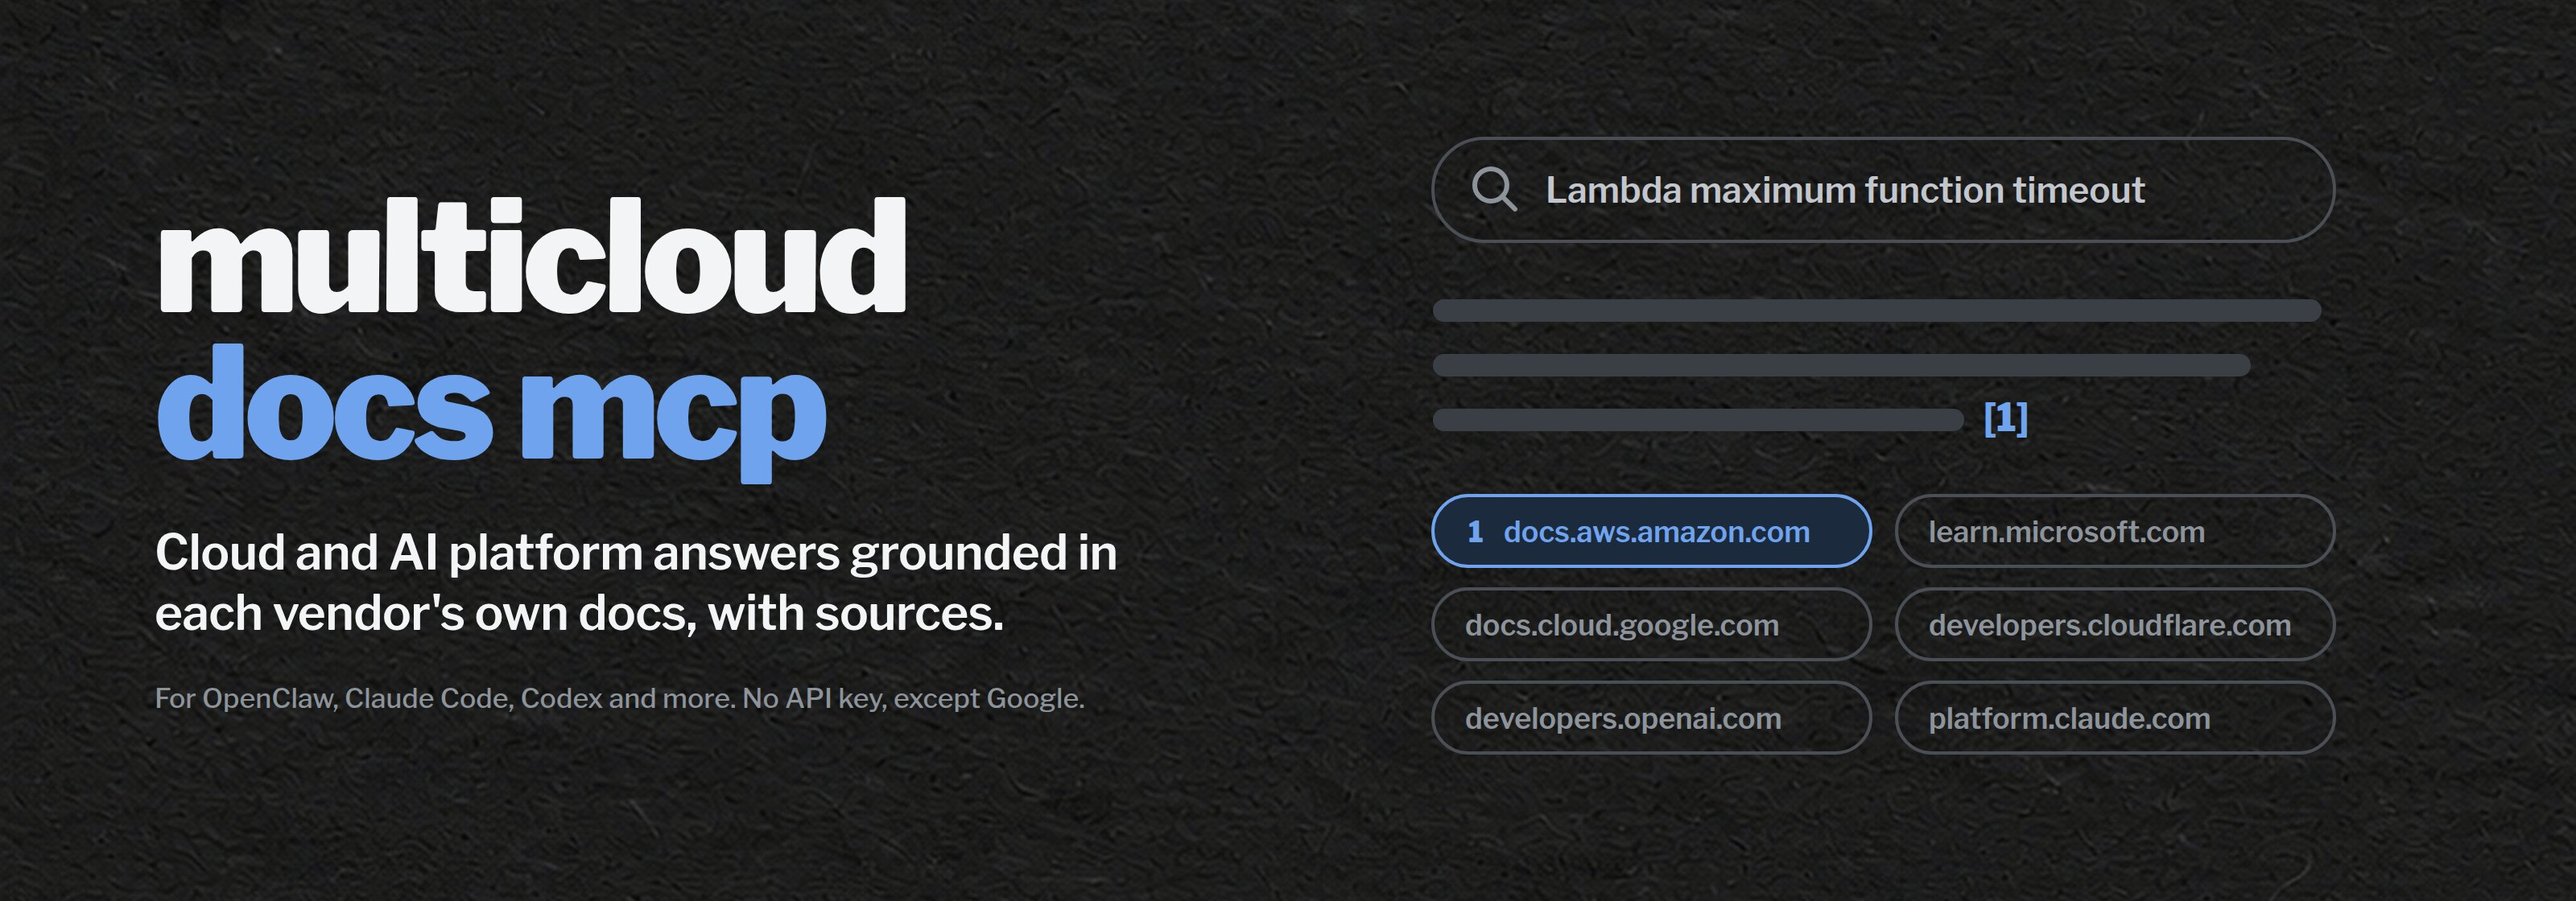
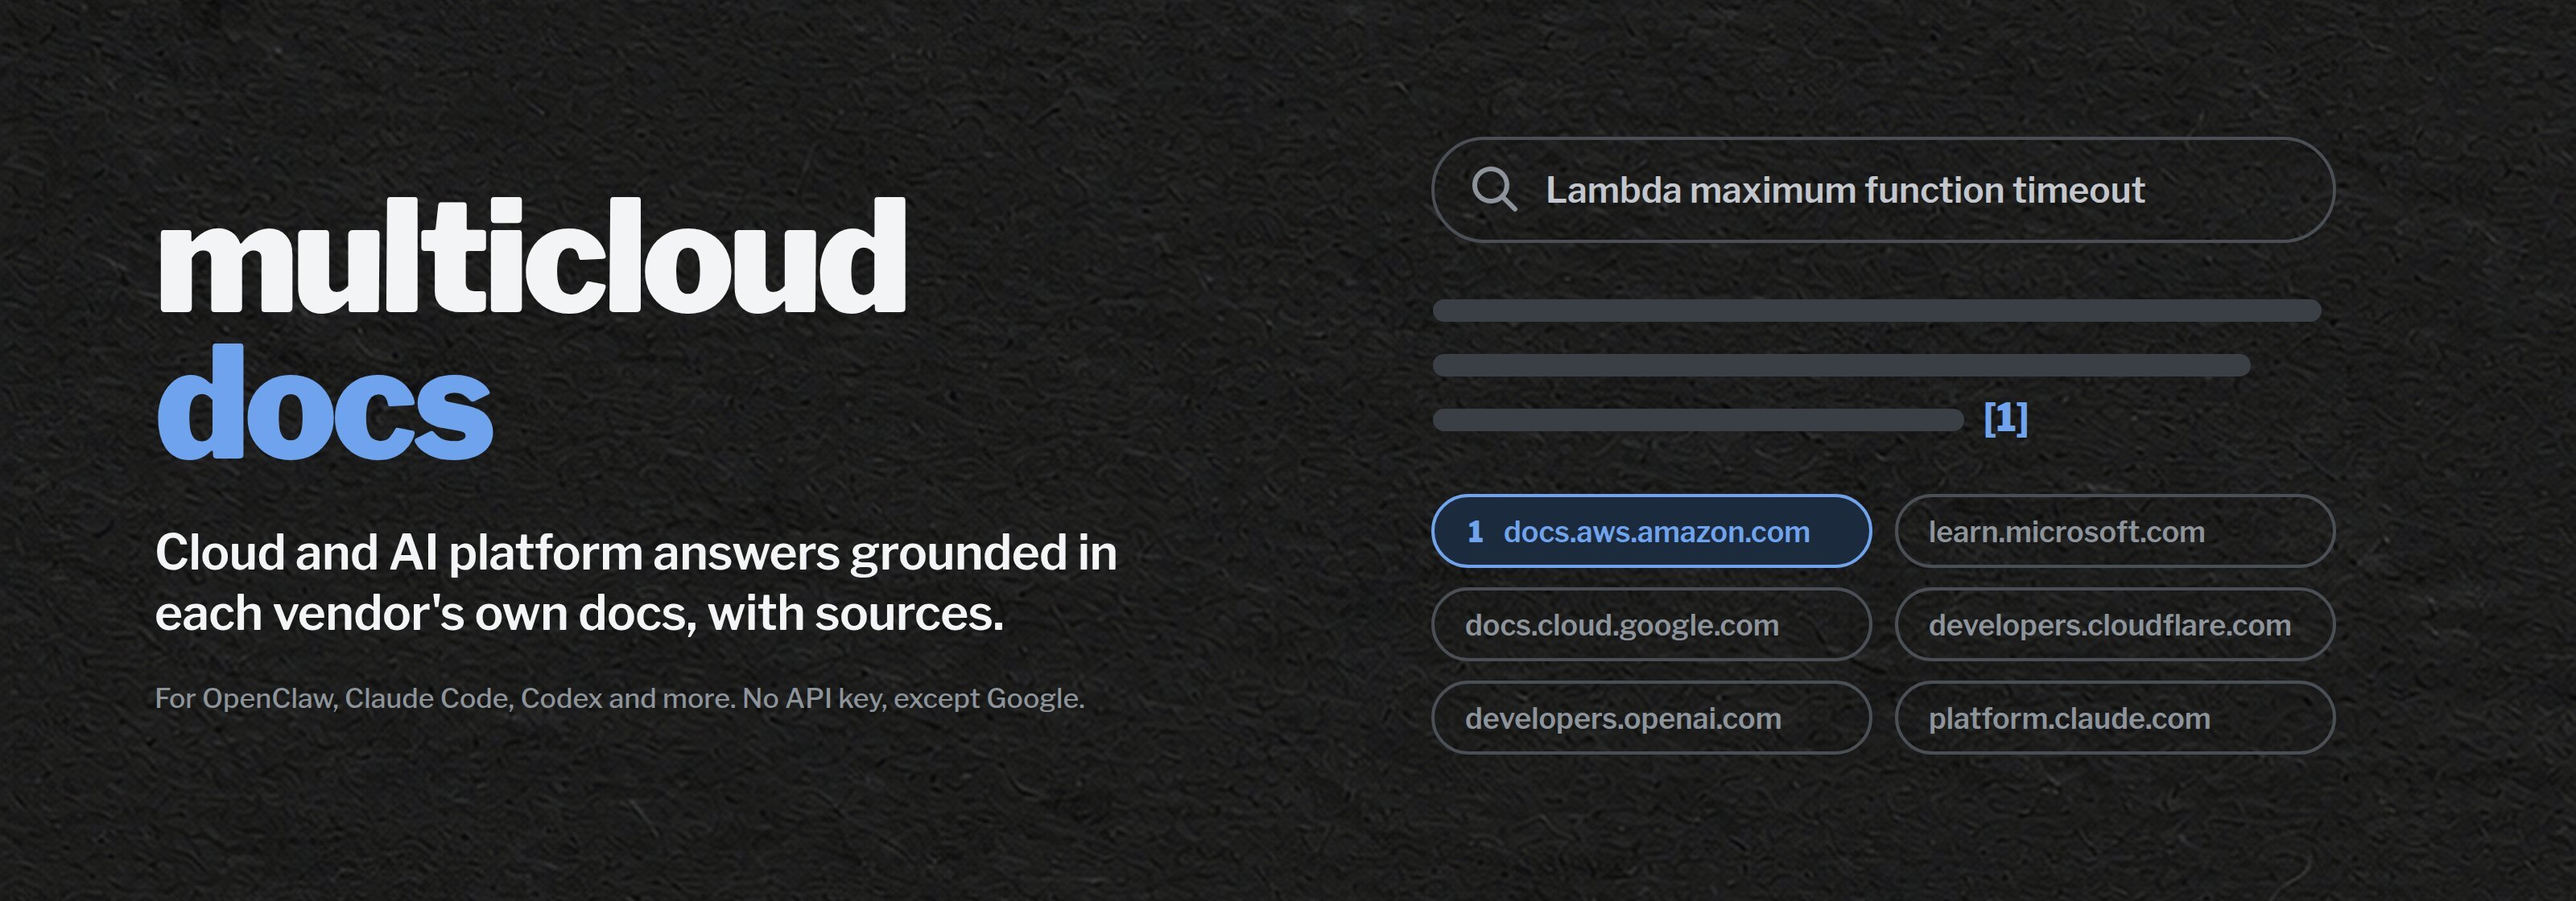
docs: clarify Multi-cloud Docs naming and presentation

Changed region(s): [[0.1875, 0.4062, 0.3438, 0.5312]]

diff --git a/README.md b/README.md
@@ -1,16 +1,16 @@
 <picture>
   <source media="(prefers-color-scheme: dark)" srcset="https://raw.githubusercontent.com/Ricardodpalmeida/openclaw-multicloud-docs-mcp/main/.github/assets/banner-dark.jpg">
-  <img alt="multicloud docs mcp: cloud and AI platform answers grounded in each vendor's own docs, with sources. A search box asks for the Lambda maximum function timeout, grey answer lines end in a blue citation, and six source chips name docs.aws.amazon.com, learn.microsoft.com, docs.cloud.google.com, developers.cloudflare.com, developers.openai.com and platform.claude.com." src="https://raw.githubusercontent.com/Ricardodpalmeida/openclaw-multicloud-docs-mcp/main/.github/assets/banner-light.jpg">
+  <img alt="Multi-cloud Docs: cloud and AI platform answers grounded in each vendor's own docs, with sources. A search box asks for the Lambda maximum function timeout, grey answer lines end in a blue citation, and six source chips name docs.aws.amazon.com, learn.microsoft.com, docs.cloud.google.com, developers.cloudflare.com, developers.openai.com and platform.claude.com." src="https://raw.githubusercontent.com/Ricardodpalmeida/openclaw-multicloud-docs-mcp/main/.github/assets/banner-light.jpg">
 </picture>
 
 <p align="center">
   <a href="LICENSE"><img alt="License: MIT-0" src="https://img.shields.io/badge/license-MIT--0-1F5AA6?style=flat-square"></a>
   <img alt="Agent Skill" src="https://img.shields.io/badge/Agent%20Skill-SKILL.md-18191B?style=flat-square">
-  <a href="https://clawhub.ai/ricardodpalmeida/skills/multicloud-docs-mcp"><img alt="On ClawHub" src="https://img.shields.io/badge/ClawHub-multicloud--docs--mcp-6B7280?style=flat-square"></a>
+  <a href="https://clawhub.ai/ricardodpalmeida/skills/multicloud-docs-mcp"><img alt="On ClawHub" src="https://img.shields.io/badge/ClawHub-Multi--cloud%20Docs-6B7280?style=flat-square"></a>
   <img alt="API key only for Google" src="https://img.shields.io/badge/API%20key-only%20for%20Google-6B7280?style=flat-square">
 </p>
 
-Models answer cloud questions from training data, and service limits, SDK versions and API shapes change faster than that data. **Multi-cloud Docs MCP** is an Agent Skill that grounds your agent's answers in each vendor's current documentation, through the public MCP server the vendor itself hosts, and cites the pages it used. It covers Microsoft, AWS, Google, Cloudflare, OpenAI and Anthropic with one HTTP call per lookup, no saved configuration and no API key, except for Google.
+Models answer cloud questions from training data, and service limits, SDK versions and API shapes change faster than that data. **Multi-cloud Docs** is an agent skill for official cloud and AI documentation via MCP. It grounds your agent's answers in each vendor's current documentation, through the public MCP server the vendor itself hosts, and cites the pages it used. It covers Microsoft, AWS, Google, Cloudflare, OpenAI and Anthropic with one HTTP call per lookup, no saved configuration and no API key, except for Google.
 
 This answer comes from a real run, where the agent was asked for the maximum timeout of an AWS Lambda function and picked the skill up by itself:
 

diff --git a/SKILL.md b/SKILL.md
@@ -1,6 +1,6 @@
 ---
 name: multicloud-docs-mcp
-description: "Grounds cloud and AI platform answers in current first-party documentation through each vendor's own public MCP server: Microsoft Learn, AWS, Google Cloud, Cloudflare, OpenAI and Anthropic. Use for service limits, APIs, SDKs, CLI commands, regional availability or explicit documentation verification. One HTTP call per lookup; no API key except Google."
+description: "Agent skill for official cloud and AI documentation via MCP. Covers Microsoft Learn, AWS, Google Cloud, Cloudflare, OpenAI and Anthropic. Use for service limits, APIs, SDKs, CLI commands, regional availability or explicit documentation verification. One HTTP call per lookup; no API key except Google."
 license: MIT-0
 metadata:
   {
@@ -12,7 +12,7 @@ metadata:
   }
 ---
 
-# Multi-cloud Docs MCP
+# Multi-cloud Docs
 
 Each vendor below hosts a public, read-only Streamable HTTP MCP server for its own documentation. Use the row of the vendor the question is about; general programming needs no lookup.
 

diff --git a/CHANGELOG.md b/CHANGELOG.md
@@ -1,5 +1,11 @@
 # Changelog
 
+## 1.0.1
+
+- Rename the public presentation to Multi-cloud Docs and clarify the description: an agent skill for official cloud and AI documentation via MCP.
+- Update README branding and light/dark banners. Keep MCP as a discovery topic.
+- Preserve the technical skill identifier, repository URLs, installation commands, lookup workflow, endpoints, usage criteria and limits.
+
 ## 1.0.0
 
 - Initial release: one skill for the first-party documentation MCP servers of Microsoft, AWS, Google, Cloudflare, OpenAI and Anthropic, with a stateless single-request access path and a web fallback for vendors without a server.
